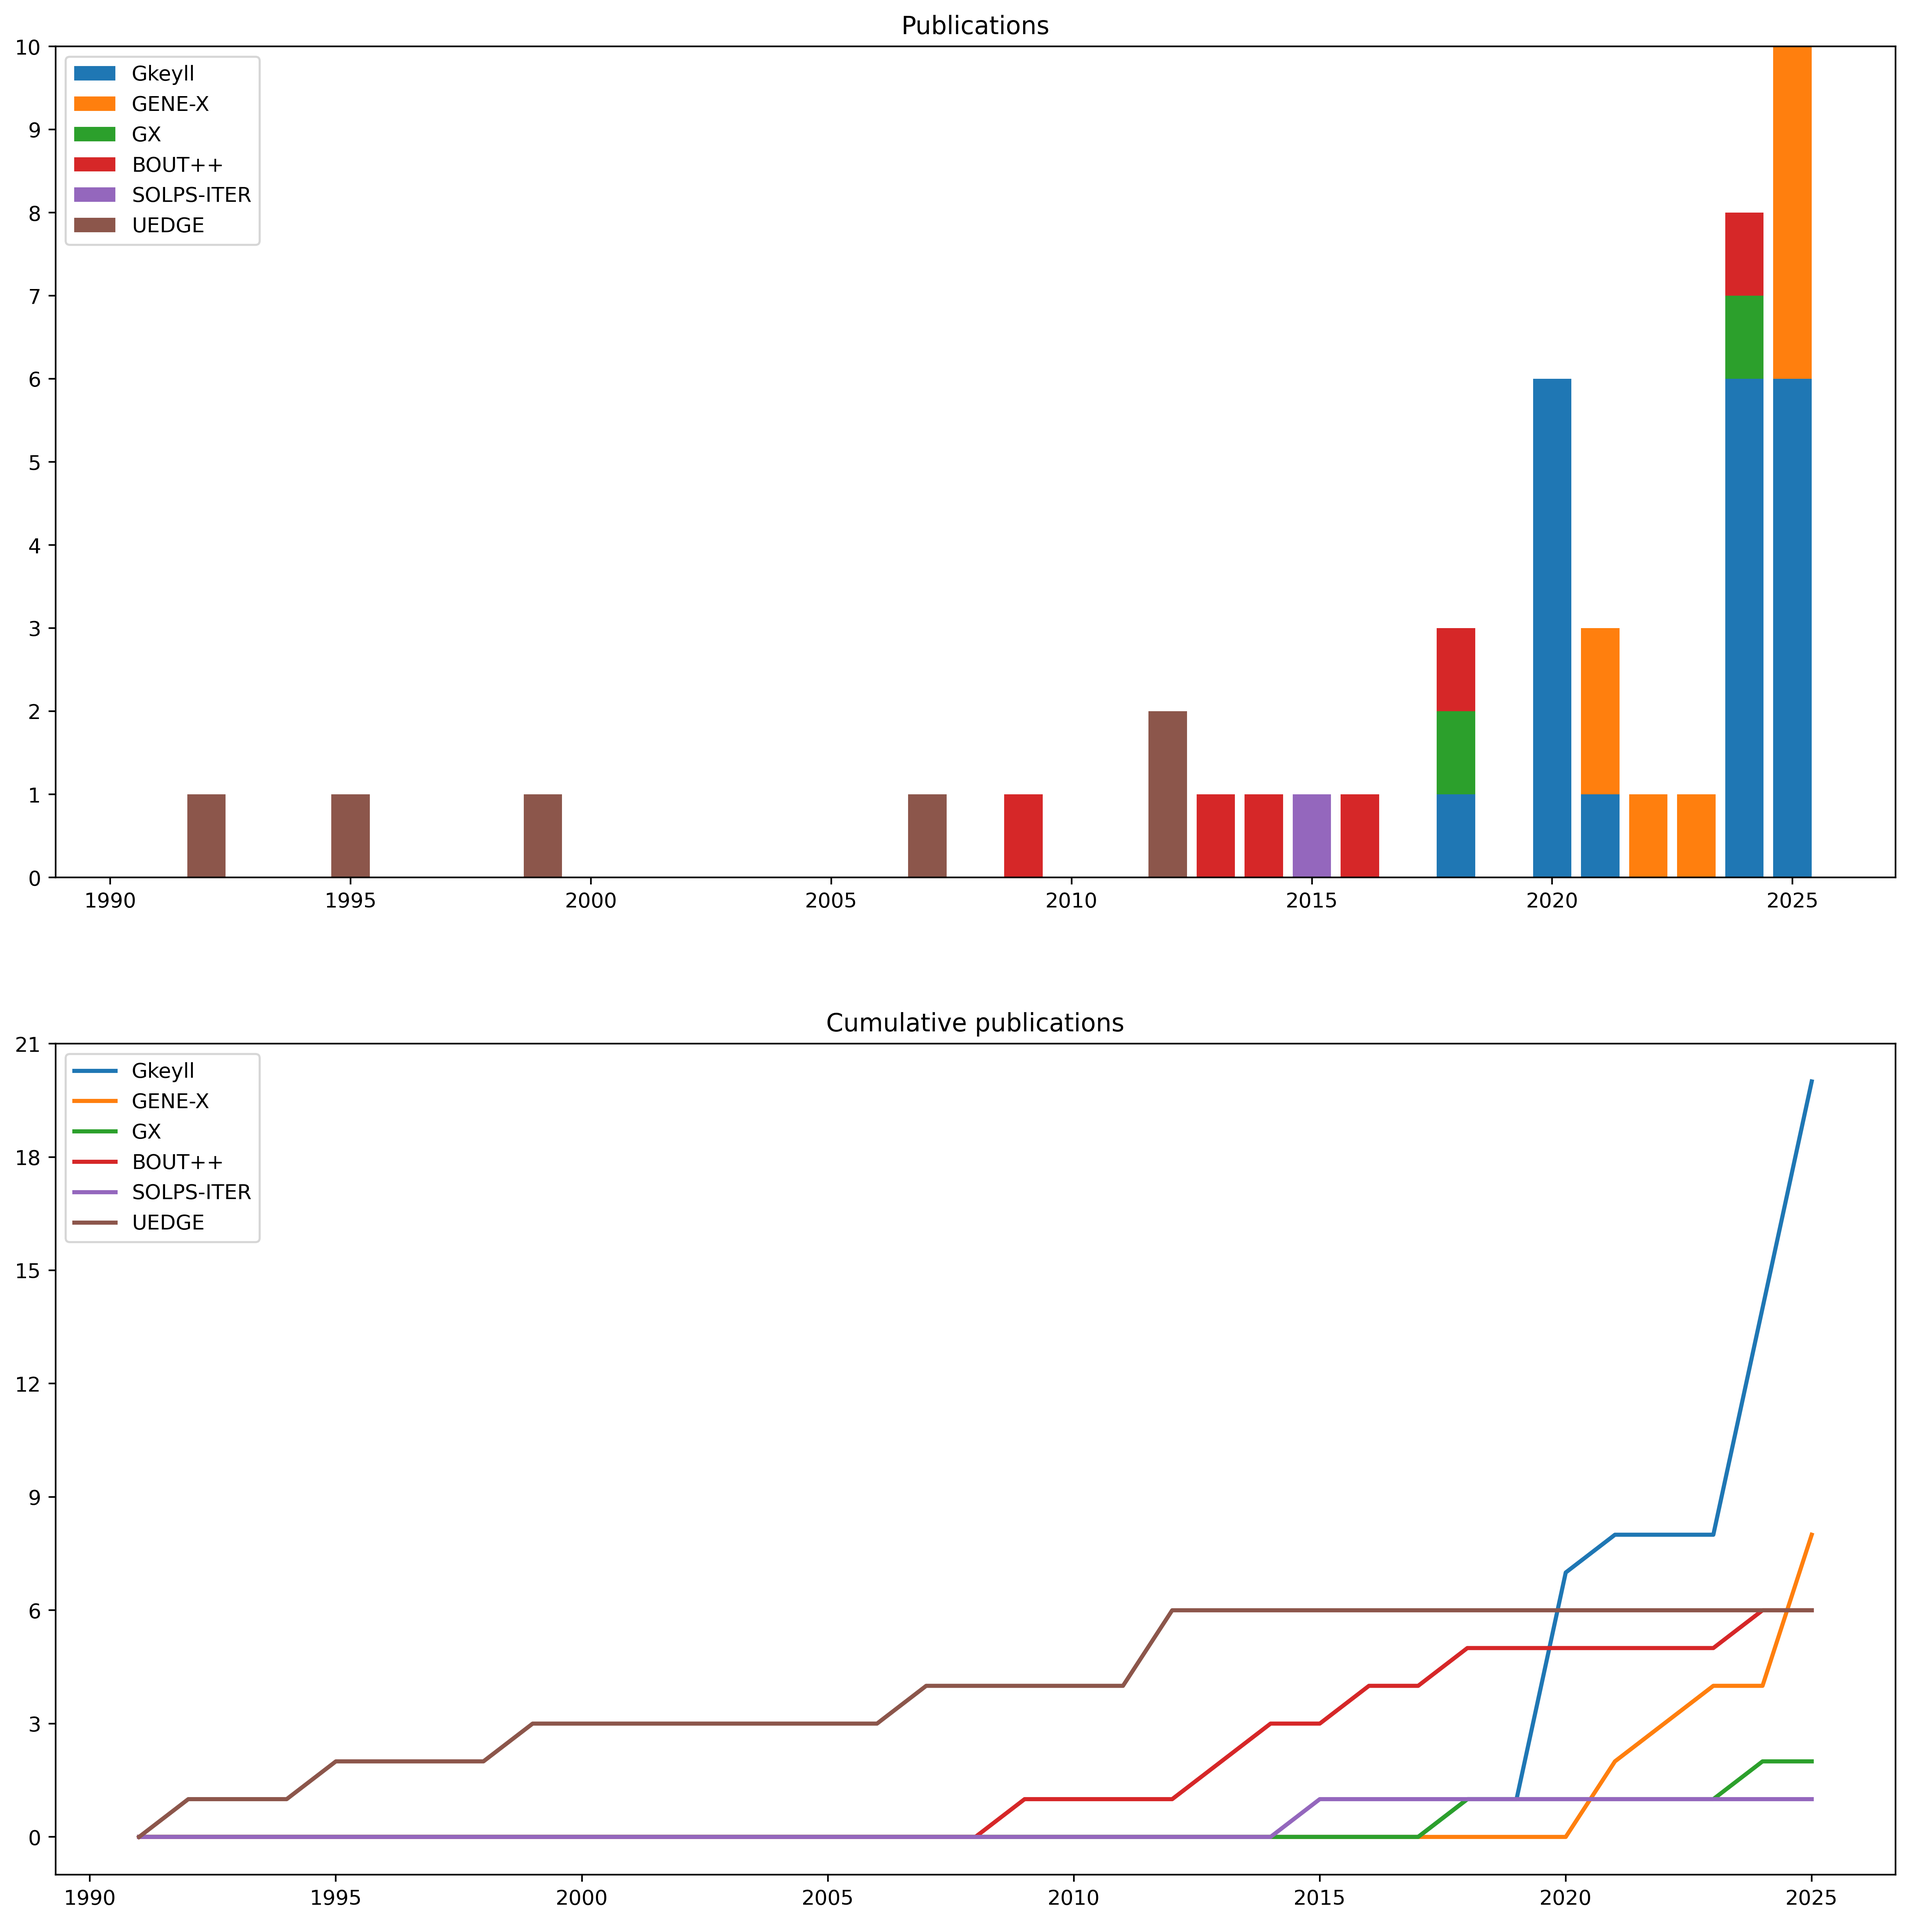
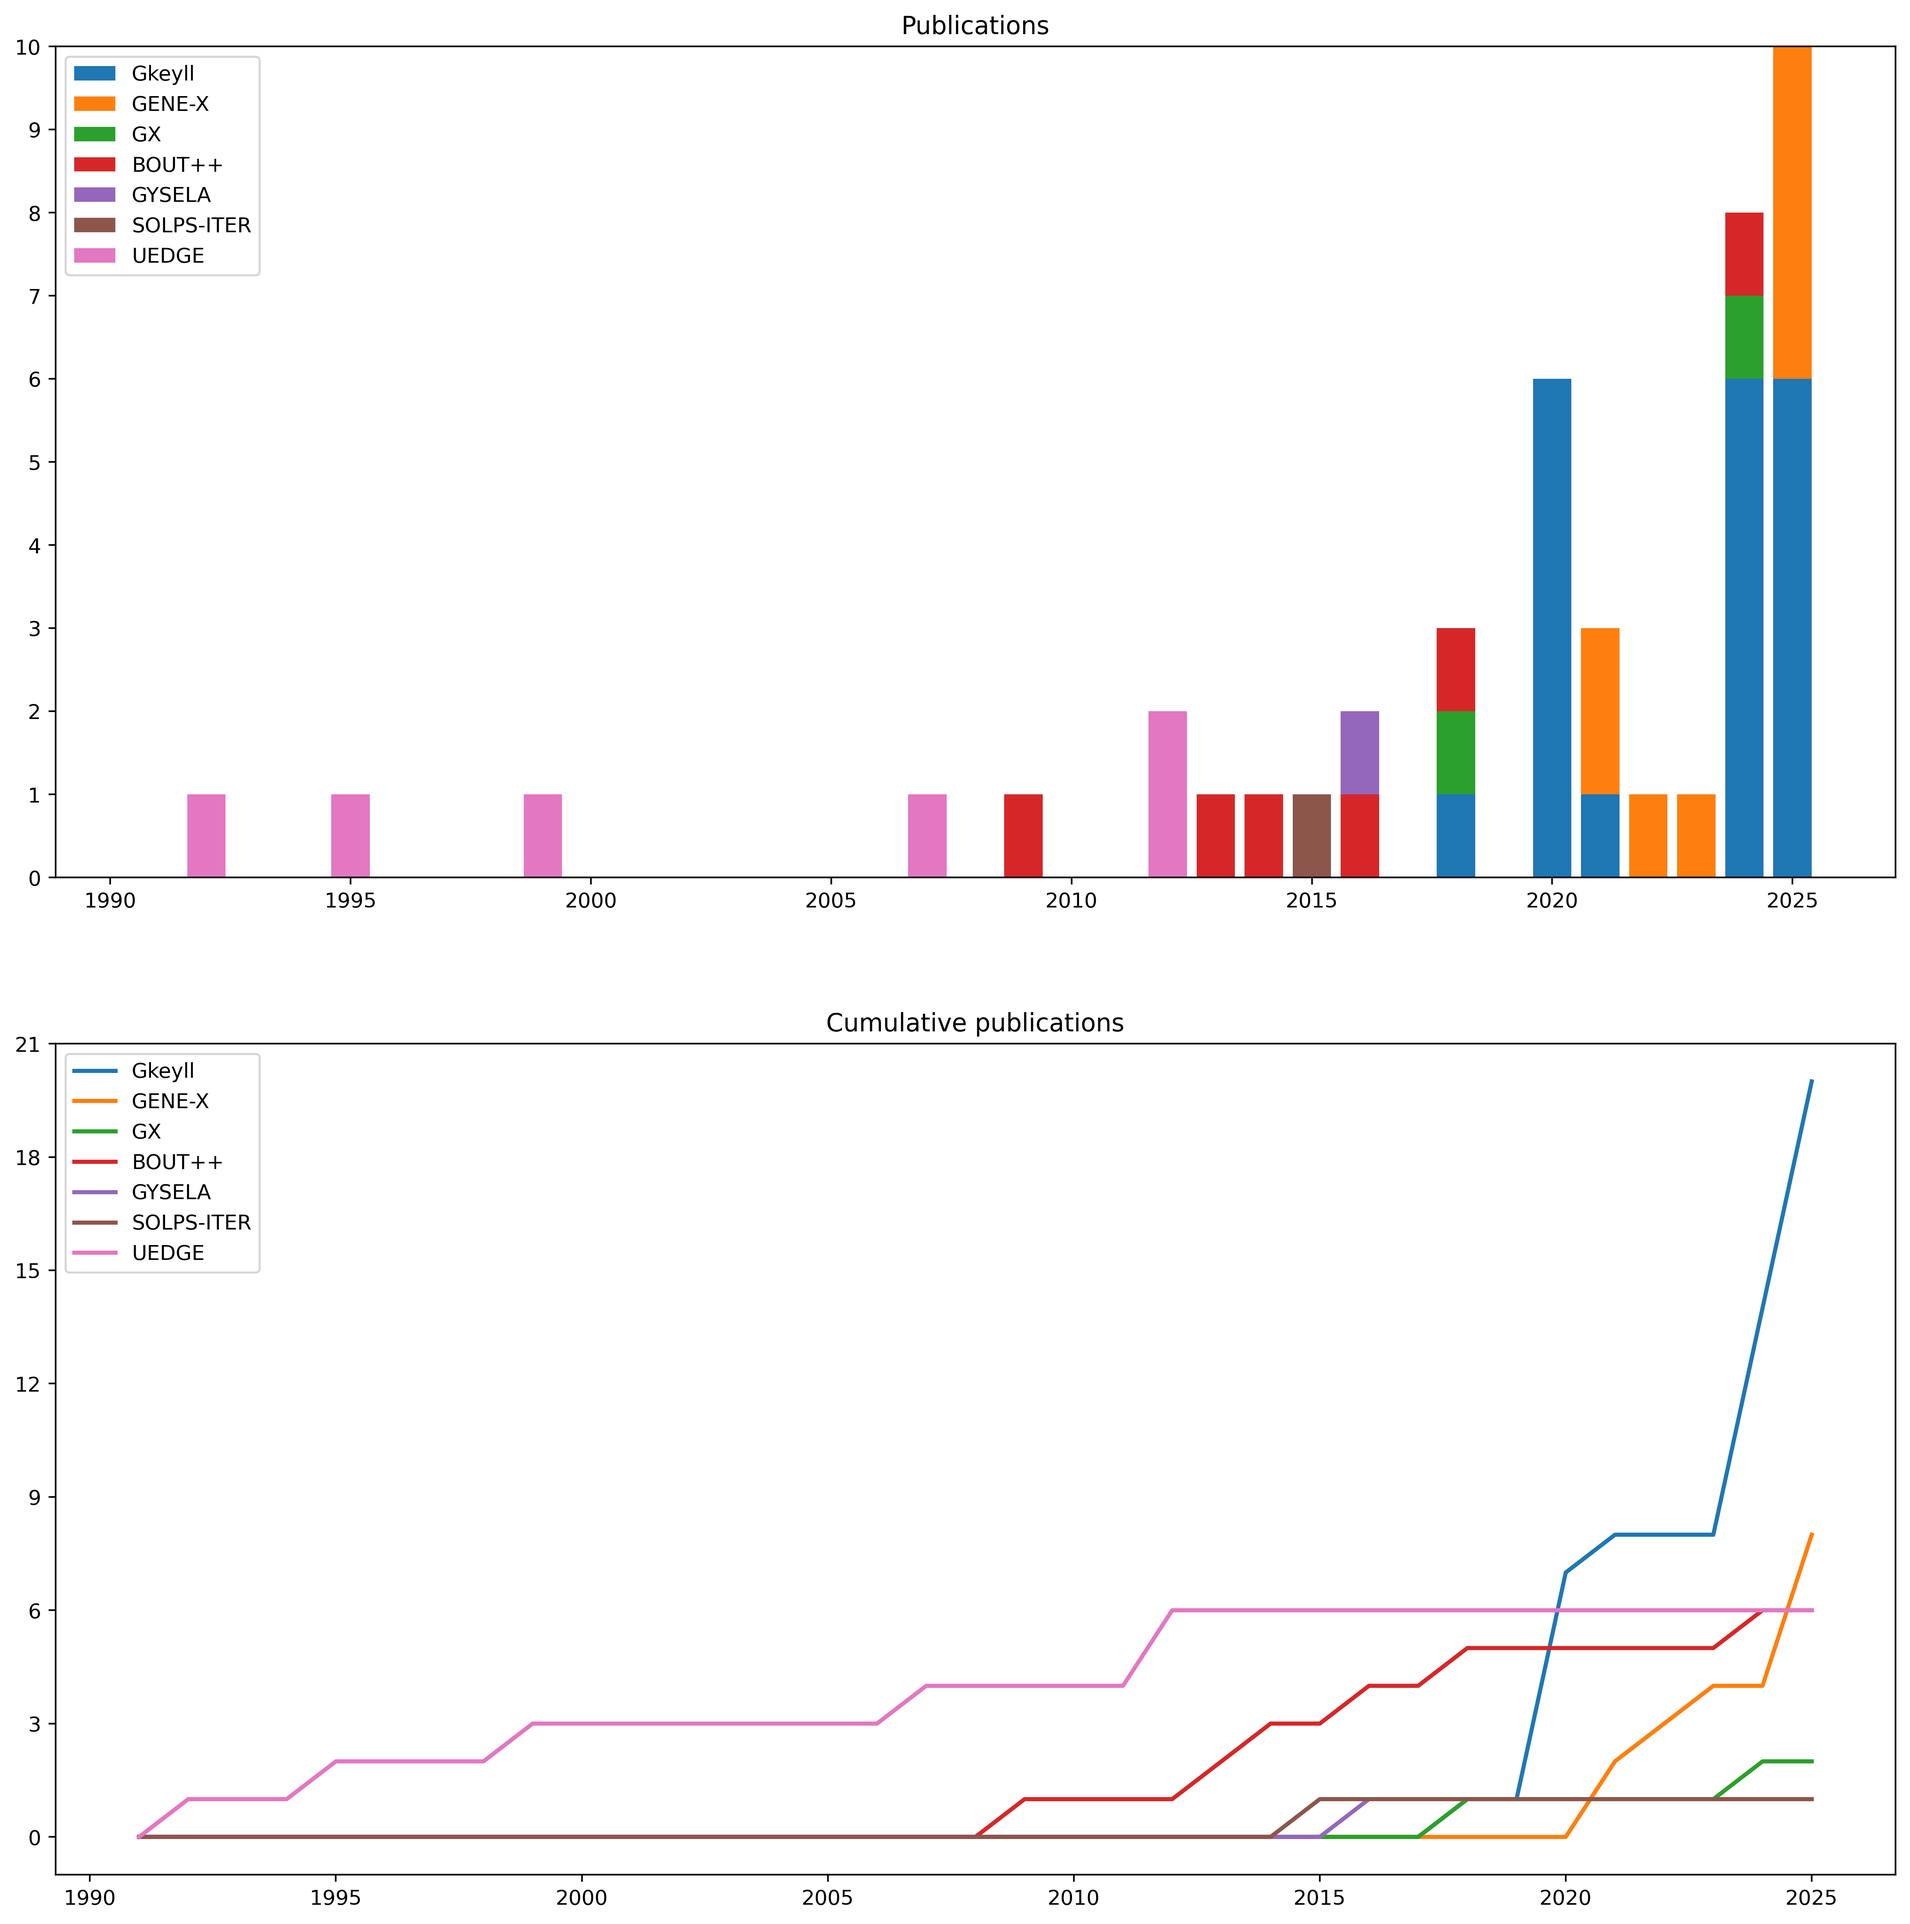
feat: add "10.1016/j.cpc.2016.05.007"

diff --git a/README.md b/README.md
@@ -37,6 +37,7 @@
 - Calculation of two-dimension radial electric field in boundary plasmas by using BOUT++. Li at el. (2018) [10.1016/j.cpc.2018.03.003](https://doi.org/10.1016/j.cpc.2018.03.003)
 - Laguerre-Hermite pseudo-spectral velocity formulation of gyrokinetics. Mandell at el. (2018) [10.1017/S0022377818000041](https://doi.org/10.1017/S0022377818000041)
 - Verification of BOUT++ by the method of manufactured solutions. Dudson at el. (2016) [10.1063/1.4953429](https://doi.org/10.1063/1.4953429)
+- A 5D gyrokinetic full-*f* global semi-Lagrangian code for flux-driven ion turbulence simulations. Grandgirard at el. (2016) [10.1016/j.cpc.2016.05.007](https://doi.org/10.1016/j.cpc.2016.05.007)
 - The new SOLPS-ITER code package. Wiesen at el. (2015) [10.1016/j.jnucmat.2014.10.012](https://doi.org/10.1016/j.jnucmat.2014.10.012)
 - BOUT++: Recent and current developments. Dudson at el. (2014) [10.1017/S0022377814000816](https://doi.org/10.1017/S0022377814000816)
 - Five-field simulations of peeling-ballooning modes using BOUT++ code. Xia and Xu (2013) [10.1063/1.4801006](https://doi.org/10.1063/1.4801006)
